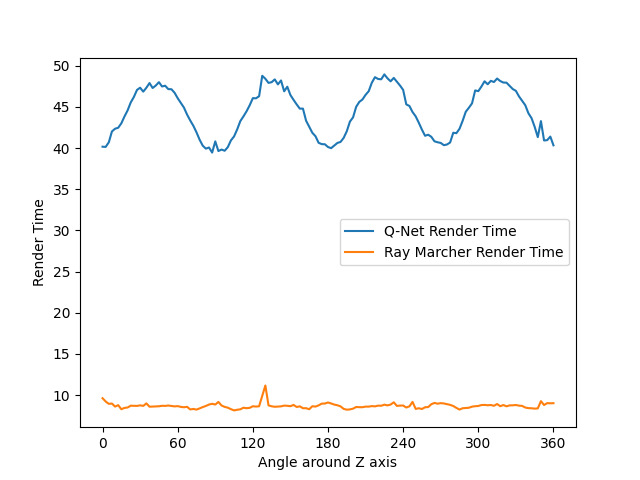
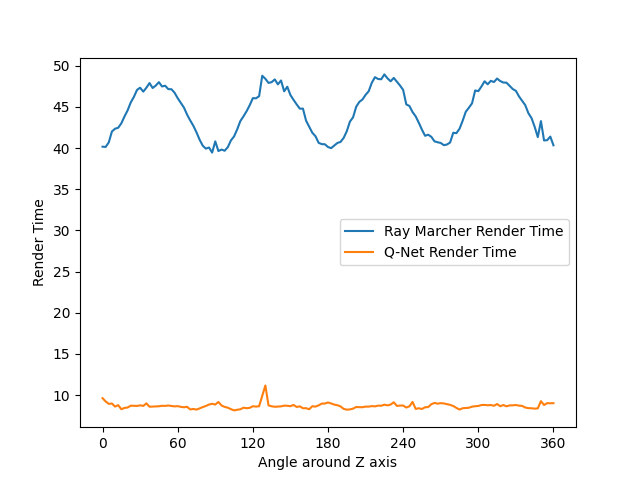
Corrected time plot labels

Changed region(s): [[0.5938, 0.4688, 0.875, 0.5625]]

diff --git a/Raytracer/Experiment_plotter.py b/Raytracer/Experiment_plotter.py
@@ -51,12 +51,12 @@ def plot_exp(filename):
     plt.show()
 
 
-    plt.plot(lines[0], lines[11], label="Q-Net Render Time")
-    plt.plot(lines[0], lines[10], label="Ray Marcher Render Time")
+    plt.plot(lines[0], lines[11], label="Ray Marcher Render Time")
+    plt.plot(lines[0], lines[10], label="Q-Net Render Time")
     plt.xticks(np.arange(0, 361, 60))
     plt.ylabel("Render Time")
-    plt.xlabel("Angle around X axis")
+    plt.xlabel("Angle around Z axis")
     plt.legend()
     plt.show()
 
-plot_exp("../Renders/Blender_cloud_v1_x_exp_400_400/data.txt")
+plot_exp("../Renders/Blender_cloud_v1_zup-down_exp_400_400/data.txt")
